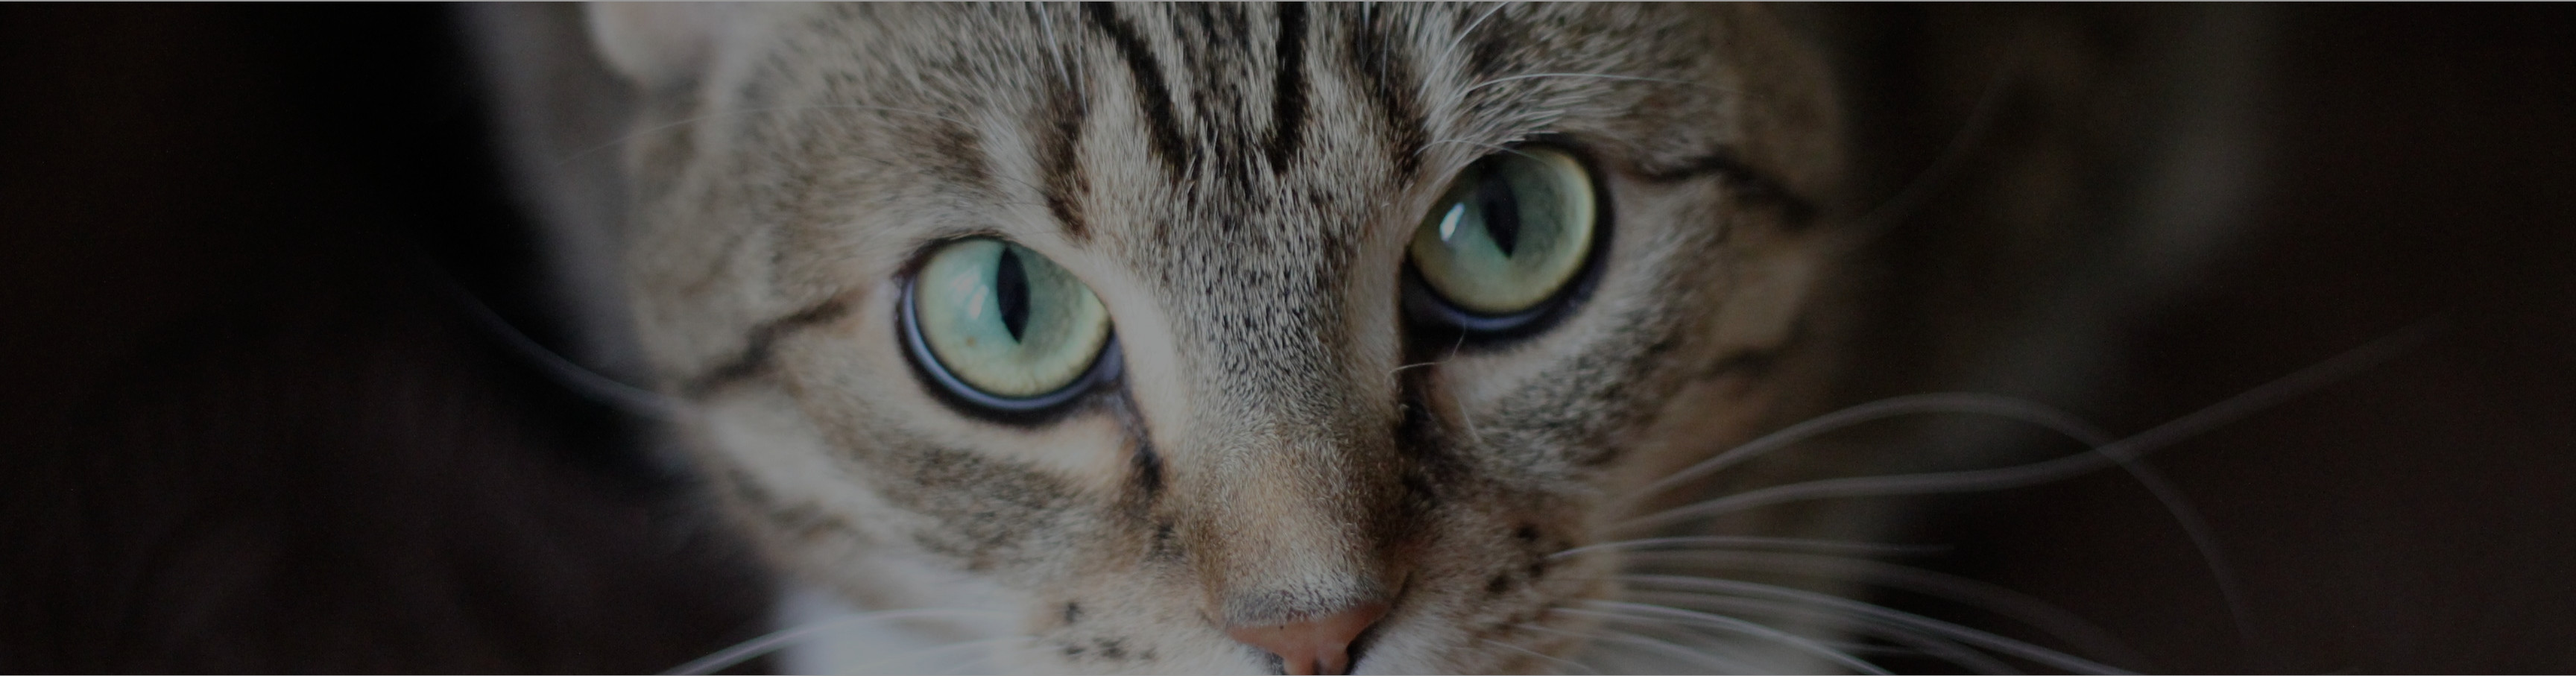
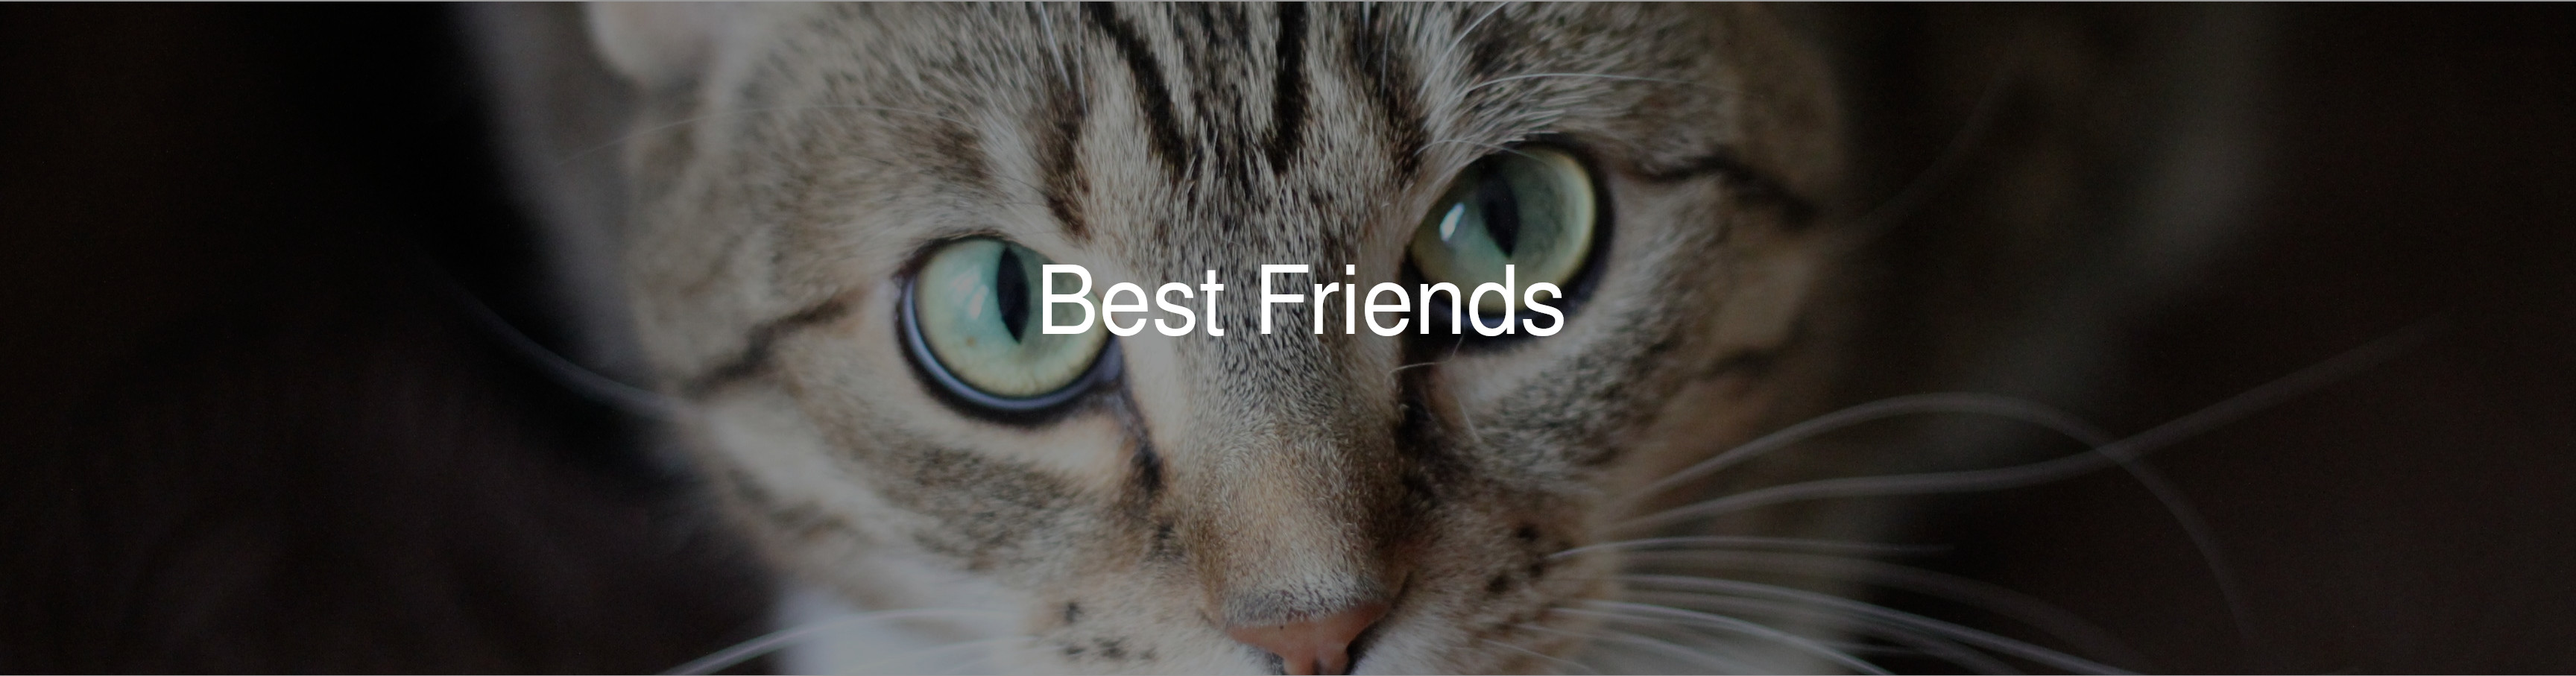
commit via shell

Changed region(s): [[0.4062, 0.3705, 0.625, 0.4939]]

diff --git a/Pages/adopt.html b/Pages/adopt.html
@@ -26,10 +26,10 @@
                     <div class="navbar-collapse">  
                         <ul class="navbar-nav">  
                             <li class="nav-item">  
-                                <a class="nav-link active" href="index.html">Home</a>  
+                                <a class="nav-link" href="../index.html">Home</a>  
                             </li> 
                             <li class="nav-item">
-                                <a class="nav-link" href="Pages/adopt.html">Adopt Today</a>
+                                <a class="nav-link active" href="Pages/adopt.html">Adopt Today</a>
                             </li>
                         </ul>  
                     </div>                              
@@ -47,11 +47,77 @@
             </div>  
         </section> 
         <section>
-                <div>
-                    <img class="images" src="../Media/cuddle1.jpg" width="700">
-                    <img class="images" style="float: right;" src="../Media/2cats.jpg" width="700">
+                <div style="display: flex; align-items: center; margin: 20px auto; flex-wrap: wrap;">
+                    <div style="flex: 1 text-align: center;">
+                        <img class="images" src="../Media/cuddle1.jpg" width="500">
+                    </div>
+                    <div style="flex: 1; text-align: center;">
+                        <p>In 2023, 415,000 cats and dogs were killed in this country's shelters, simply because they didn't have a safe place to call home</p>
+                    </div>
+                    <div style="flex: 1; float: right;">
+                        <img class="images" src="../Media/2cats.jpg" width="500">
+                    </div>
                 </div>
         </section>
+
+        <section>
+            <div style="text-align: center; margin: 20px auto; padding: 100px;">
+                <h1>Adopt a pet from Best Friends</h1>
+                <p>In addition to running our animal sanctuary in Kanab and partnering with thousands of shelters and rescue groups, Best Friends operates its own lifesaving centers around the country.</p>
+            </div>
+        </section>
+
+<section class="locations-section" style="margin: 40px 0; padding: 20px; background-color: #000; color: #fff;">
+    <div class="container" style="max-width: 1200px; margin: 0 auto; padding: 20px 10px;">
+        <h2 style="text-align: center; margin-bottom: 30px; font-size: 2rem; color: #fff;">Our Shelter Locations</h2>
+        
+        <div style="display: flex; flex-wrap: wrap; justify-content: center; margin-bottom: 30px;">
+            <div style="flex: 0 0 33.33%; min-width: 300px; padding: 15px; box-sizing: border-box;">
+                <div style="background-color: rgba(255, 255, 255, 0.1); padding: 25px; border-radius: 8px; height: 100%; transition: transform 0.3s ease; cursor: pointer;" onmouseover="this.style.transform='scale(1.03)'" onmouseout="this.style.transform='scale(1)'">
+                    <h3 style="color: #fff; margin-bottom: 15px; font-size: 1.5rem;">Best Friends Animal Sanctuary</h3>
+                    <p style="color: #ccc; line-height: 1.6;">Adopt to make more room for incoming pets at the Sanctuary in Kanab, Utah</p>
+                    </div>
+            </div>
+            
+            <div style="flex: 0 0 33.33%; min-width: 300px; padding: 15px; box-sizing: border-box;">
+                <div style="background-color: rgba(255, 255, 255, 0.1); padding: 25px; border-radius: 8px; height: 100%; transition: transform 0.3s ease; cursor: pointer;" onmouseover="this.style.transform='scale(1.03)'" onmouseout="this.style.transform='scale(1)'">
+                    <h3 style="color: #fff; margin-bottom: 15px; font-size: 1.5rem;">Best Friends in Los Angeles</h3>
+                    <p style="color: #ccc; line-height: 1.6;">Adopting is an incredibly fun and fulfilling way to help save homeless pets in L.A.</p>
+                </div>
+            </div>
+            
+            <div style="flex: 0 0 33.33%; min-width: 300px; padding: 15px; box-sizing: border-box;">
+                <div style="background-color: rgba(255, 255, 255, 0.1); padding: 25px; border-radius: 8px; height: 100%; transition: transform 0.3s ease; cursor: pointer;" onmouseover="this.style.transform='scale(1.03)'" onmouseout="this.style.transform='scale(1)'">
+                    <h3 style="color: #fff; margin-bottom: 15px; font-size: 1.5rem;">Best Friends in Salt Lake City</h3>
+                    <p style="color: #ccc; line-height: 1.6;">Give a pet a home and alleviate the burden on shelters in Salt Lake City</p>
+                </div>
+            </div>
+        </div>
+        
+        <div style="display: flex; flex-wrap: wrap; justify-content: center;">
+            <div style="flex: 0 0 33.33%; min-width: 300px; padding: 15px; box-sizing: border-box;">
+                <div style="background-color: rgba(255, 255, 255, 0.1); padding: 25px; border-radius: 8px; height: 100%; transition: transform 0.3s ease; cursor: pointer;" onmouseover="this.style.transform='scale(1.03)'" onmouseout="this.style.transform='scale(1)'">
+                    <h3 style="color: #fff; margin-bottom: 15px; font-size: 1.5rem;">Best Friends in Houston</h3>
+                    <p style="color: #ccc; line-height: 1.6;">Houston embraces community-based sheltering to prepare pets for adoption.</p>
+                </div>
+            </div>
+            
+            <div style="flex: 0 0 33.33%; min-width: 300px; padding: 15px; box-sizing: border-box;">
+                <div style="background-color: rgba(255, 255, 255, 0.1); padding: 25px; border-radius: 8px; height: 100%; transition: transform 0.3s ease; cursor: pointer;" onmouseover="this.style.transform='scale(1.03)'" onmouseout="this.style.transform='scale(1)'">
+                    <h3 style="color: #fff; margin-bottom: 15px; font-size: 1.5rem;">Best Friends in New York City</h3>
+                    <p style="color: #ccc; line-height: 1.6;">Adopt to be apart of a lifesaving team working to create a bright future for homeless pets in NYC.</p>
+                </div>
+            </div>
+            
+            <div style="flex: 0 0 33.33%; min-width: 300px; padding: 15px; box-sizing: border-box;">
+                <div style="background-color: rgba(255, 255, 255, 0.1); padding: 25px; border-radius: 8px; height: 100%; transition: transform 0.3s ease; cursor: pointer;" onmouseover="this.style.transform='scale(1.03)'" onmouseout="this.style.transform='scale(1)'">
+                    <h3 style="color: #fff; margin-bottom: 15px; font-size: 1.5rem;">Best Friends in Northwest Arkansas</h3>
+                    <p style="color: #ccc; line-height: 1.6;">Adopting a pet is a rewarding way to make a lifetime of difference for pets.</p>
+                </div>
+            </div>
+        </div>
+    </div>
+</section>
   
         <footer>
                 <div class="tm-main-content" id="top">  
@@ -71,4 +137,19 @@
                                         <a class="nav-link active" href="Pages/contact.html">Contact Us</a>  
                                     </li> 
                                     <li class="nav-item">
-              
+                                        <a class="nav-link active" href="Pages/dataSharing.html">Data Sharing Request</a>
+                                    </li>
+                                    <li class="nav-item">  
+                                        <a class="nav-link active" href="Pages/privPolicy.html">Privacy Policy</a>  
+                                    </li>
+<li class="nav-item">  
+                                        <a class="nav-link active" href="Pages/tos.html">Terms & Conditions</a>  
+                                    </li>
+                                </ul>  
+                            </div>                              
+                        </nav>  
+                    </div>  
+                </div>
+            </footer> 
+</body>  
+</html>  

diff --git a/index.html b/index.html
@@ -86,7 +86,7 @@ Finibus malesuada rutrum dictum erat dis enim pellentesque etiam. Ante duis cras
                                         <a class="nav-link active" href="Pages/contact.html">Contact Us</a>  
                                     </li> 
                                     <li class="nav-item">
-                                        <a class="nav-link" href="Pages/dataSharing.html">Data Sharing Request</a>
+                                        <a class="nav-link active" href="Pages/dataSharing.html">Data Sharing Request</a>
                                     </li>
                                     <li class="nav-item">  
                                         <a class="nav-link active" href="Pages/privPolicy.html">Privacy Policy</a>  
